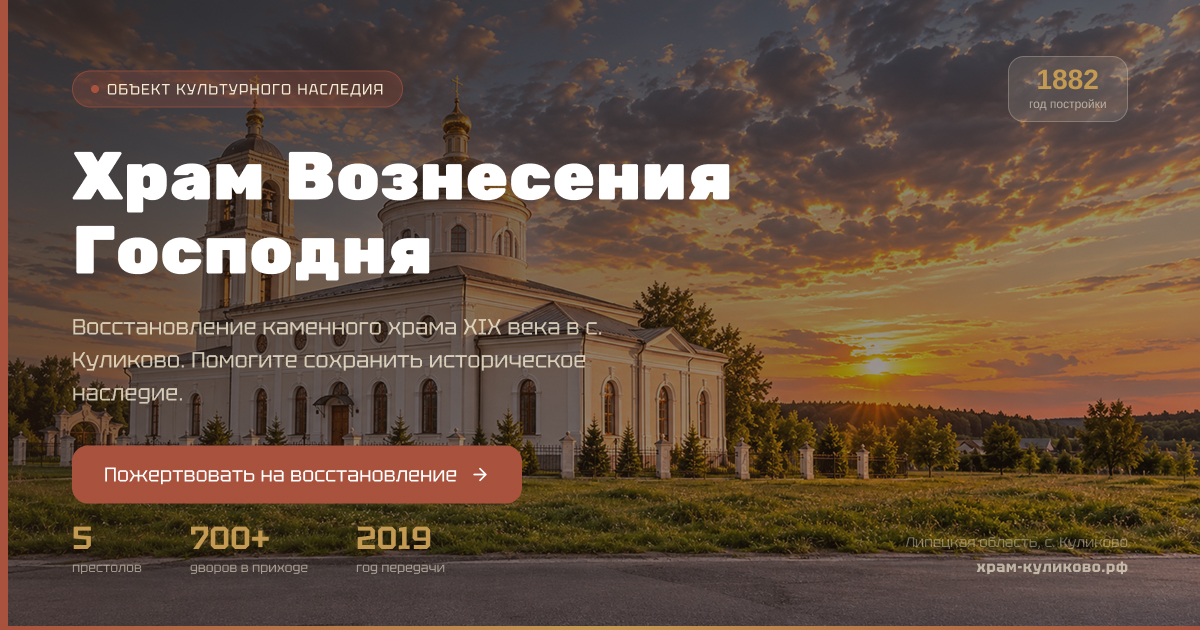
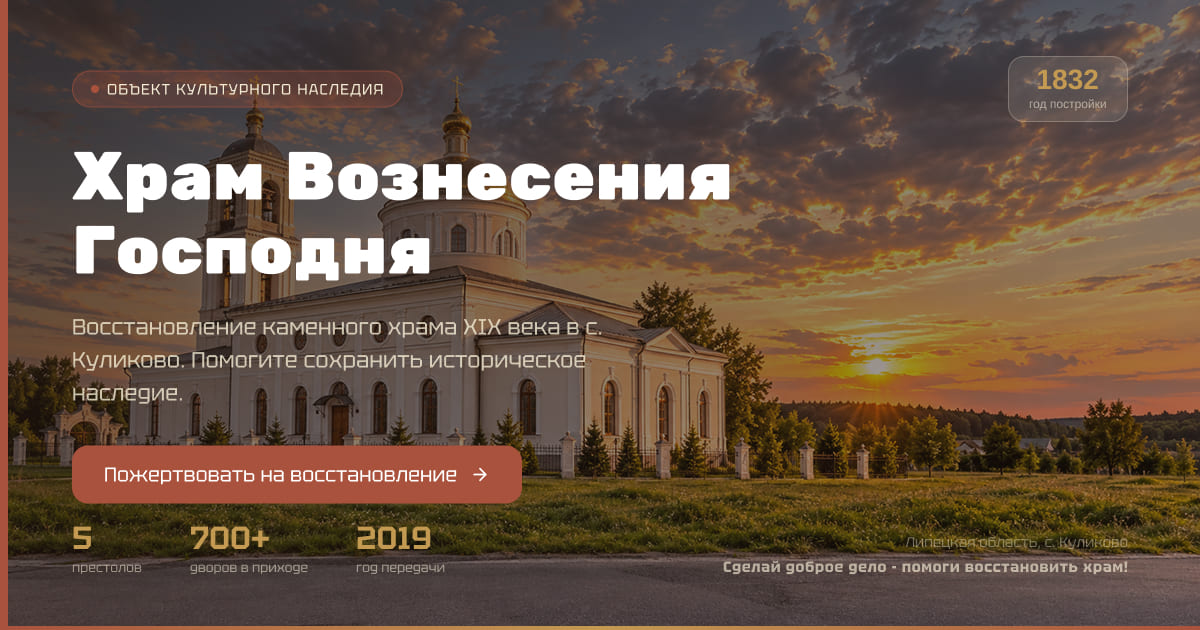
v1.1.1 - (Внесены правки и корректировка изображений в Safari)

Changed region(s): [[0.5858, 0.8746, 0.9558, 0.9048]]

diff --git a/src/assets/sections/DonateSection.vue b/src/assets/sections/DonateSection.vue
@@ -53,7 +53,7 @@ const bankLink = import.meta.env.VITE_BANK_LINK;
         <div class="right">
           <div class="qr">
             <div class="qr__code">
-              <!-- Место для QR-кода -->
+              <img src="/qrcode.jpeg" :alt="bankLink" />
             </div>
             <p class="qr__hint t-16">
               Отсканируйте QR-код для перехода на страницу оплаты
@@ -144,9 +144,12 @@ h2.head {
     border-radius: 16px;
     display: flex;
     justify-content: center;
-    background: url(/public/qrcode.jpeg) no-repeat center;
     align-items: center;
     box-shadow: $shadow_img;
+
+    img {
+      border-radius: 16px;
+    }
 
     img,
     svg {

diff --git a/src/assets/sections/HistorySection.vue b/src/assets/sections/HistorySection.vue
@@ -18,7 +18,7 @@ import DecoratorHistoryIcon from "../icons/DecoratorHistoryIcon.vue";
               <h3 class="head">Как всё начиналось</h3>
               <div class="paragraph">
                 <p class="ab_text">
-                  Каменный храм во имя Вознесения Господня был построен в 1882
+                  Каменный храм во имя Вознесения Господня был построен в 1832
                   году на средства прихожан. Тёплый храм стал центром духовной
                   жизни нескольких окрестных деревень.
                 </p>

diff --git a/src/assets/sections/PromoSection.vue b/src/assets/sections/PromoSection.vue
@@ -131,7 +131,7 @@ onUnmounted(() => {
               Храм Вознесения<br />Господня<br />в с. Куликово
             </h1>
             <p class="description">
-              Каменный храм, построенный в 1882 году на средства прихожан. Идёт
+              Каменный храм, построенный в 1832 году на средства прихожан. Идёт
               капитальное восстановление.
             </p>
             <p class="slogan">Подарите храму новое будущее!</p>

diff --git a/src/assets/styles/main.scss b/src/assets/styles/main.scss
@@ -90,6 +90,10 @@ h2.head {
   }
 }
 
+img {
+  height: auto;
+}
+
 h3.head {
   margin-bottom: 16px;
   font-size: 24px;

diff --git a/README.md b/README.md
@@ -1,3 +1,3 @@
 # church-kulikovo
 
-Landing for the Ascension Church in Kulikovo (built 1882) - history, ongoing restoration, and donation information.
+Landing for the Ascension Church in Kulikovo (built 1832) - history, ongoing restoration, and donation information.
